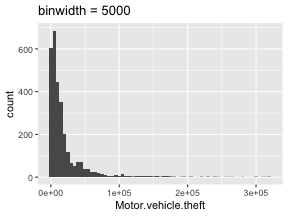
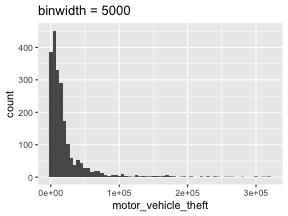
tighter version

diff --git a/02_r-intro/03_r-graphics_A.html b/02_r-intro/03_r-graphics_A.html
@@ -1,9 +1,10 @@
 <!DOCTYPE html>
-<html xmlns="http://www.w3.org/1999/xhtml" lang="" xml:lang="">
+<html lang="" xml:lang="">
   <head>
     <title>Stat 579: More types of graphics with ggplot2</title>
     <meta charset="utf-8" />
     <meta name="author" content="Heike Hofmann" />
+    <script src="libs/header-attrs-2.24/header-attrs.js"></script>
     <link href="libs/remark-css-0.0.1/default.css" rel="stylesheet" />
     <link href="libs/remark-css-0.0.1/default-fonts.css" rel="stylesheet" />
   </head>
@@ -11,8 +12,12 @@
     <textarea id="source">
 class: center, middle, inverse, title-slide
 
+.title[
 # Stat 579: More types of graphics with ggplot2
+]
+.author[
 ### Heike Hofmann
+]
 
 ---
 
@@ -36,30 +41,26 @@ Load libraries:
 
 
 ```r
-library(tidyverse)
+library(tidyverse) 
 ```
 
 ```
-## ── Attaching packages ─────────────────── tidyverse 1.3.0 ──
-```
-
-```
-## ✓ ggplot2 3.3.2.9000     ✓ purrr   0.3.4
-## ✓ tibble  3.0.3          ✓ dplyr   1.0.2
-## ✓ tidyr   1.1.1          ✓ stringr 1.4.0
-## ✓ readr   1.3.1          ✓ forcats 0.5.0
-```
-
-```
-## ── Conflicts ────────────────────── tidyverse_conflicts() ──
-## x dplyr::filter() masks stats::filter()
-## x dplyr::lag()    masks stats::lag()
+## ── Attaching core tidyverse packages ──────────────────────── tidyverse 2.0.0 ──
+## ✔ dplyr     1.1.3     ✔ readr     2.1.4
+## ✔ forcats   1.0.0     ✔ stringr   1.5.0
+## ✔ ggplot2   3.4.3     ✔ tibble    3.2.1
+## ✔ lubridate 1.9.2     ✔ tidyr     1.3.0
+## ✔ purrr     1.0.2     
+## ── Conflicts ────────────────────────────────────────── tidyverse_conflicts() ──
+## ✖ dplyr::filter() masks stats::filter()
+## ✖ dplyr::lag()    masks stats::lag()
+## ℹ Use the conflicted package (&lt;http://conflicted.r-lib.org/&gt;) to force all conflicts to become errors
 ```
 
 ```r
 # not found? run install.packages("tidyverse")
 
-library(classdata)
+library(classdata) 
 # not found? run remotes::install_github("heike/classdata")
 ```
 
@@ -71,8 +72,8 @@ Can facet to display plots for different subsets: `facet_wrap`, `facet_grid`
 
 
 ```r
-ggplot(aes(x = Year, y = Murder), data=fbiwide) +
-  facet_wrap(~State) +
+ggplot(aes(x = year, y = homicide), data=fbiwide) +
+  facet_wrap(~state) +
   geom_point()
 ```
 
@@ -84,7 +85,7 @@ ggplot(aes(x = Year, y = Murder), data=fbiwide) +
 
 - `facet_grid` has formula specification: `rows ~ cols`
 
-- `facet_wrap` has specification `~ variables`
+- `facet_wrap` has specification `~ variables` 
 
 - multiple variables (in either specification) are included in form of a sum, i.e. `rowvar1 + rowvar2 ~ colvar1+ colvar2`
 
@@ -92,7 +93,7 @@ ggplot(aes(x = Year, y = Murder), data=fbiwide) +
 
 ---
 class: inverse
-## Your turn
+## Your turn 
 
 Use the `fbiwide` data from the package `classdata` for this your turn.
 
@@ -136,13 +137,13 @@ Use the `fbiwide` data from the package `classdata` for this your turn.
 
 
 ```r
-ggplot(data = fbi, aes(x = Type, y = log10(Count))) +
-  geom_boxplot() +
+ggplot(data = fbi, aes(x = type, y = log10(count))) +
+  geom_boxplot() + 
   coord_flip()
 ```
 
 ```
-## Warning: Removed 2751 rows containing non-finite values (stat_boxplot).
+## Warning: Removed 2002 rows containing non-finite values (`stat_boxplot()`).
 ```
 
 ![](03_r-graphics_A_files/figure-html/unnamed-chunk-4-1.png)&lt;!-- --&gt;
@@ -151,12 +152,12 @@ ggplot(data = fbi, aes(x = Type, y = log10(Count))) +
 
 ---
 class: inverse
-## Your turn
+## Your turn 
 
 
 - Using ggplot2, draw side-by-side boxplots of the number of robberies by state. Use a log transformation on y and compare results.
 
-- Compare *rates* of robberies by state, i.e. adjust robberies by the state population. Then plot side-by-side boxplots.
+- Compare *rates* of robberies by state, i.e. adjust robberies by the state population. Then plot side-by-side boxplots. 
 
 ---
 
@@ -178,7 +179,7 @@ class: inverse
 
 
 ```r
-ggplot(fbiwide, aes(x = Motor.vehicle.theft)) +
+ggplot(fbiwide, aes(x = motor_vehicle_theft)) + 
   geom_histogram(binwidth=5000) +
   ggtitle("binwidth = 5000")
 ```
@@ -191,7 +192,7 @@ ggplot(fbiwide, aes(x = Motor.vehicle.theft)) +
 
 
 ```r
-ggplot(fbiwide, aes(x = Motor.vehicle.theft)) +
+ggplot(fbiwide, aes(x = motor_vehicle_theft)) + 
   geom_histogram(binwidth=1000) +
   ggtitle("binwidth = 1000")
 ```
@@ -204,11 +205,11 @@ Always change the bin width! There is no perfect bin width, but a lot of differe
 
 ## Barcharts
 
-What does this plot tell us?
+What does this plot tell us? 
 
 
 ```r
-ggplot(fbi, aes(x = Type)) +
+ggplot(fbi, aes(x = type)) + 
   geom_bar() +
   coord_flip()
 ```
@@ -220,12 +221,12 @@ ggplot(fbi, aes(x = Type)) +
 
 ## Barcharts
 
-What does this plot tell us?
+What does this plot tell us? 
 
 
 ```r
-ggplot(fbi, aes(x = Type)) +
-  geom_bar(aes(weight= Count)) +
+ggplot(fbi, aes(x = type)) + 
+  geom_bar(aes(weight= count)) +
   coord_flip()
 ```
 
@@ -241,7 +242,7 @@ A weighted barchart has an additional numeric variable `\(W\)` of weights `\(w_1
 
 Mathematically, both barcharts are a visualization of a set of tuples of the form `\((C_k, y_k)\)`, where for `\(1 \ge k \ge K\)`:
 
-regular barchart:
+regular barchart: 
 `$$y_k = \sum_{i=1}^n I{(x_i = C_k)}$$`
 
 Weighted barchart:
@@ -267,12 +268,12 @@ In a barchart, choose the order of the categories consciously (later)
 
 ---
 class: inverse
-## Your turn
+## Your turn 
 
 
-- Use the `fbi` data set to draw a barchart of the variable `Violent Crime`. Make the height of the bars dependent on the number of reports (use `weight`). Then facet by type (does the result match your expectation? good! get rid of facetting). Color bars by `Type`.
+- Use the `fbi` data set to draw a barchart of the variable `Violent Crime`. Make the height of the bars dependent on the number of reports (use `weight`). Then facet by type (does the result match your expectation? good! get rid of facetting). Color bars by `Type`. 
 
-- Use the `fbi` data set to draw a histogram of the number of reports. Facet by type, make sure to use individual scales for the panels.
+- Use the `fbi` data set to draw a histogram of the number of reports. Facet by type, make sure to use individual scales for the panels. 
 
 ---
 
@@ -282,8 +283,9 @@ class: inverse
 
 - RStudio cheat sheet for [ggplot2](https://www.rstudio.com/wp-content/uploads/2015/03/ggplot2-cheatsheet.pdf)
 
-- ggplot2 mailing list:
+- ggplot2 mailing list: 
 https://groups.google.com/forum/?fromgroups#!forum/ggplot2
+
     </textarea>
 <style data-target="print-only">@media screen {.remark-slide-container{display:block;}.remark-slide-scaler{box-shadow:none;}}</style>
 <script src="https://remarkjs.com/downloads/remark-latest.min.js"></script>
@@ -330,9 +332,38 @@ if (window.HTMLWidgets) slideshow.on('afterShowSlide', function (slide) {
     }
     deleted = true;
   });
-})();</script>
-
-<script>
+})();
+// add `data-at-shortcutkeys` attribute to <body> to resolve conflicts with JAWS
+// screen reader (see PR #262)
+(function(d) {
+  let res = {};
+  d.querySelectorAll('.remark-help-content table tr').forEach(tr => {
+    const t = tr.querySelector('td:nth-child(2)').innerText;
+    tr.querySelectorAll('td:first-child .key').forEach(key => {
+      const k = key.innerText;
+      if (/^[a-z]$/.test(k)) res[k] = t;  // must be a single letter (key)
+    });
+  });
+  d.body.setAttribute('data-at-shortcutkeys', JSON.stringify(res));
+})(document);
+(function() {
+  "use strict"
+  // Replace <script> tags in slides area to make them executable
+  var scripts = document.querySelectorAll(
+    '.remark-slides-area .remark-slide-container script'
+  );
+  if (!scripts.length) return;
+  for (var i = 0; i < scripts.length; i++) {
+    var s = document.createElement('script');
+    var code = document.createTextNode(scripts[i].textContent);
+    s.appendChild(code);
+    var scriptAttrs = scripts[i].attributes;
+    for (var j = 0; j < scriptAttrs.length; j++) {
+      s.setAttribute(scriptAttrs[j].name, scriptAttrs[j].value);
+    }
+    scripts[i].parentElement.replaceChild(s, scripts[i]);
+  }
+})();
 (function() {
   var links = document.getElementsByTagName('a');
   for (var i = 0; i < links.length; i++) {
@@ -341,7 +372,23 @@ if (window.HTMLWidgets) slideshow.on('afterShowSlide', function (slide) {
     }
   }
 })();
-</script>
+// adds .remark-code-has-line-highlighted class to <pre> parent elements
+// of code chunks containing highlighted lines with class .remark-code-line-highlighted
+(function(d) {
+  const hlines = d.querySelectorAll('.remark-code-line-highlighted');
+  const preParents = [];
+  const findPreParent = function(line, p = 0) {
+    if (p > 1) return null; // traverse up no further than grandparent
+    const el = line.parentElement;
+    return el.tagName === "PRE" ? el : findPreParent(el, ++p);
+  };
+
+  for (let line of hlines) {
+    let pre = findPreParent(line);
+    if (pre && !preParents.includes(pre)) preParents.push(pre);
+  }
+  preParents.forEach(p => p.classList.add("remark-code-has-line-highlighted"));
+})(document);</script>
 
 <script>
 slideshow._releaseMath = function(el) {

diff --git a/02_r-intro/02_r-graphics-A.html b/02_r-intro/02_r-graphics-A.html
@@ -75,6 +75,7 @@ for object `x`, the following commands:
 
 - `dim(x)` gives dimensionality of `x` (rows, columns)
 
+- `names(x)` gives the name(s) of `x` and its sub-objects
 
 ---
 class: inverse, middle, center
@@ -84,7 +85,7 @@ class: inverse, middle, center
 
 ## Why `ggplot2`?
 
-- Wildly popular package for statistical graphics: well over 25k downloads per day
+- Wildly popular package for statistical graphics: millions of downloads each month
 
 ![](02_r-graphics-A_files/figure-html/unnamed-chunk-3-1.png)&lt;!-- --&gt;
 
@@ -132,18 +133,18 @@ rectangles, text, ...) and statistical transformations (`stats`, are identity, c
 ```
 data(fbiwide, package = "classdata")
 
-ggplot(data = fbiwide, aes(x = Burglary, y = Murder)) +
+ggplot(data = fbiwide, aes(x = burglary, y = murder)) +
   geom_point()
 ```  
 
 ```
-ggplot(data = fbiwide, aes(x = log(Burglary), y = log(Murder))) +
+ggplot(data = fbiwide, aes(x = log(burglary), y = log(murder))) +
   geom_point()
 ```  
 
 ```
-ggplot(data = fbiwide, aes(x = log(Burglary), 
-                           y = log(Motor.vehicle.theft))) +
+ggplot(data = fbiwide, aes(x = log(burglary), 
+                           y = log(motor_vehicle_theft))) +
   geom_point()
 ```  
 
@@ -170,16 +171,16 @@ Consequences:
 ## Using the pipe `%&gt;%`
 
 ```
-ggplot(data = filter(fbi, Type=="Murder.and.nonnegligent.Manslaughter", 
-aes(x = Year, y = Count)) + geom_point()
+ggplot(data = filter(fbi, Type=="homicide", 
+aes(x = year, y = count)) + geom_point()
 ```
 
 becomes
 
 ```
 fbi %&gt;% 
-  filter(Type=="Murder.and.nonnegligent.Manslaughter") %&gt;%
-  ggplot(aes(x = Year, y = Count)) + 
+  filter(type=="homicide") %&gt;%
+  ggplot(aes(x = year, y = count)) + 
     geom_point()
 ```
 ---
@@ -189,16 +190,16 @@ fbi %&gt;%
 Can map other variables to size or colour
 
 ```
-ggplot(aes(x = log(Burglary), y = log(Motor.vehicle.theft),
-           colour=State), data=fbiwide) + geom_point()
+ggplot(aes(x = log(burglary), y = log(motor_vehicle_theft),
+           colour=state), data=fbiwide) + geom_point()
 
-ggplot(aes(x = log(Burglary), y = log(Motor.vehicle.theft),
-           colour=Year), data=fbiwide) + geom_point()
+ggplot(aes(x = log(burglary), y = log(motor_vehicle_theft),
+           colour=year), data=fbiwide) + geom_point()
 ```
 
 ```
-ggplot(aes(x = log(Burglary), y = log(Motor.vehicle.theft),
-           size=Population), data=fbiwide) + geom_point()
+ggplot(aes(x = log(burglary), y = log(motor_vehicle_theft),
+           size=population), data=fbiwide) + geom_point()
 ```
 
 other aesthetics: shape
